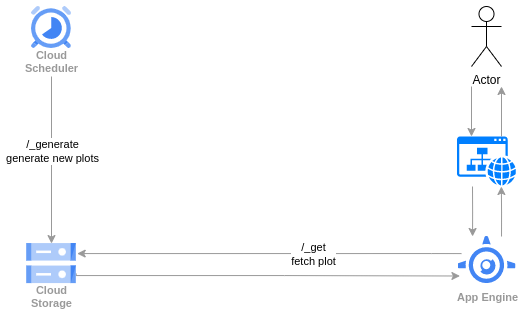
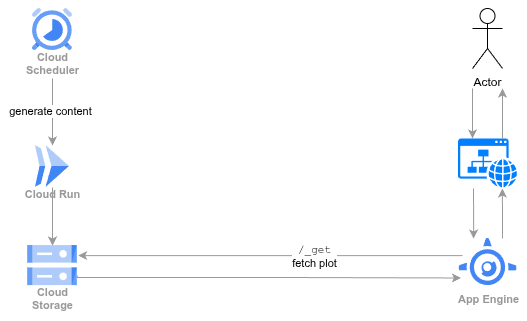
docs: Update project description

diff --git a/README.md b/README.md
@@ -28,25 +28,29 @@ Additionally, a poster image is generated via OpenAI image model.
 The project can be run over localhost with Flask development server.
 
 With `uv` installed, first start the server with
-```bash
+```shell
 uv run flask --app webserver.views:app run --debug
 ```
-Then, to generate a set of _2_ movie translations, send a request with
-```bash
-curl -H "X-Appengine-Cron: 1" "http://127.0.0.1:5000/_generate?type=MOVIE&batch_size=2"
-```
-Resulting plots are stored to the _dev_ bucket.
 
-Similarly, to generate translations for people:
-```bash
-curl -H "X-Appengine-Cron: 1" "http://127.0.0.1:5000/_generate?type=PERSON&batch_size=2"
+Background tasks for generating new content can be run with something like
+
+To generate a set of _2_ movie translations run:
+ ```shell
+uv run -m jobs.main --type movie --batch_size 2
 ```
+Resulting plots are stored to the _dev_ bucket `dev_not_that_movie`.
+
+This will skip image generation (and use a template image instead)  to save OpenAI API call.
+To run with actual image generation, fetch an API key and enable stating runtime with:
+```shell
+export OPENAI_API_KEY=$(gcloud secrets versions access latest --secret not-that-movie-open-ai-api-key)
+ENV=stg uv run -m jobs.main --type movie --batch_size 2
+```
+
 
 > [!NOTE]  
 > The Google Translate API is rate limited. Each generation request includes multiple sections to translate. Therefore, is better to make several generation calls with moderate `batch_size` over a timeframe than to use a large batch size.
 
-> [!NOTE]  
-> When ran locally, the poster image generation is skipped in order to save API tokens. A template image will be used instead. 
 
 ### Unit tests
 Unit tests for the Python backend can be run with
@@ -68,10 +72,11 @@ The base set of movies to choose for the translations is definied as text files 
 
 On each translation request, a random subset of movies is selected but more weight is given to the more recent and top selling ones.
 
-New source lists can be added here, but a weight needs to be defined in [data/weight_config.json](data/weight_config.json) in order for it to be considered for
+New source lists can be added here, but a weight needs to be defined in [jobs/data/weight_config.json](jobs/data/weight_config.json) in order for it to be considered for
 the rotation.
 
 Movie names need to be in the format they are in the url of the corresponding Wikipedia article, ie. for the 1991 Disney _Beauty and the Beast_ use `Beauty_and_the_Beast_(1991_film)` as in https://en.wikipedia.org/wiki/Beauty_and_the_Beast_(1991_film)
 
-### Deploy to App Engine
-A GitHub Actions workflow deploys the project to App Engine on push to the main branch. Only the web service component is deployed. Scheduling for the content parsing endpoints is not included in this repository as App Engine does not support managing service specific schedules.
+### Deploy to production
+The webserver is deployed to App Engine. The background content generation tasks are deployed as Cloud Run jobs.
+The deployments are managed through GitHub Actions workflow.
